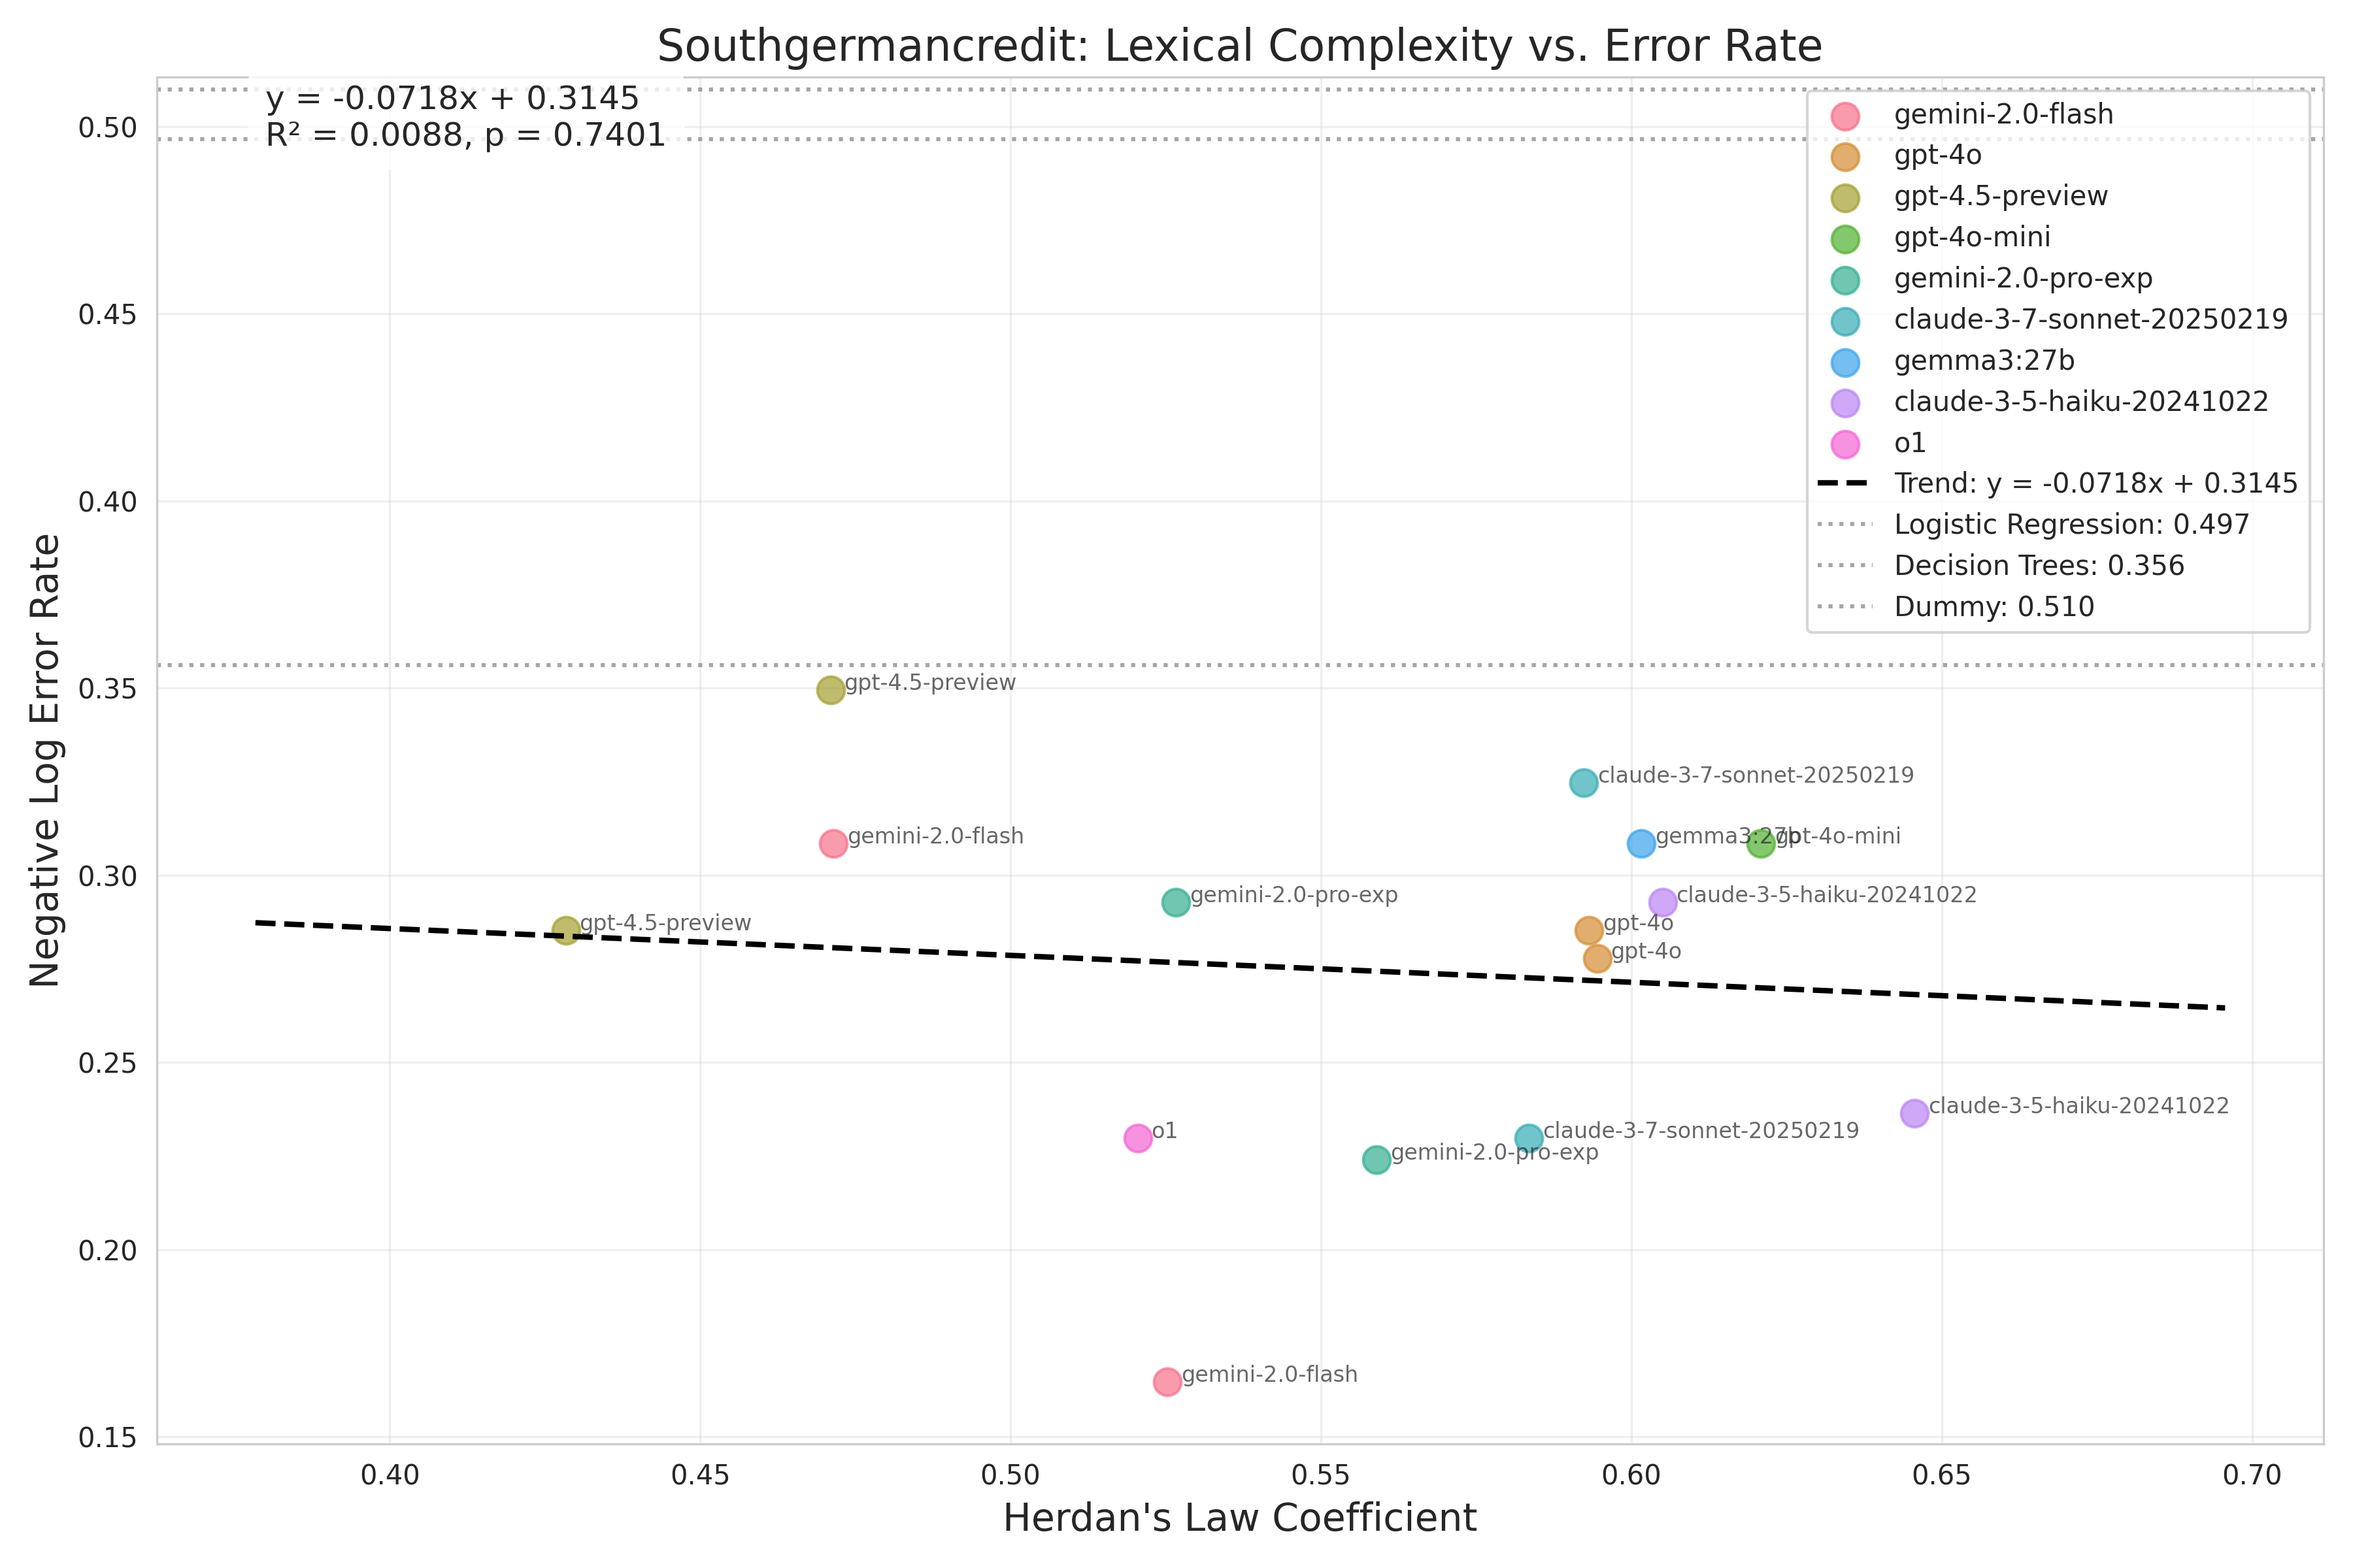
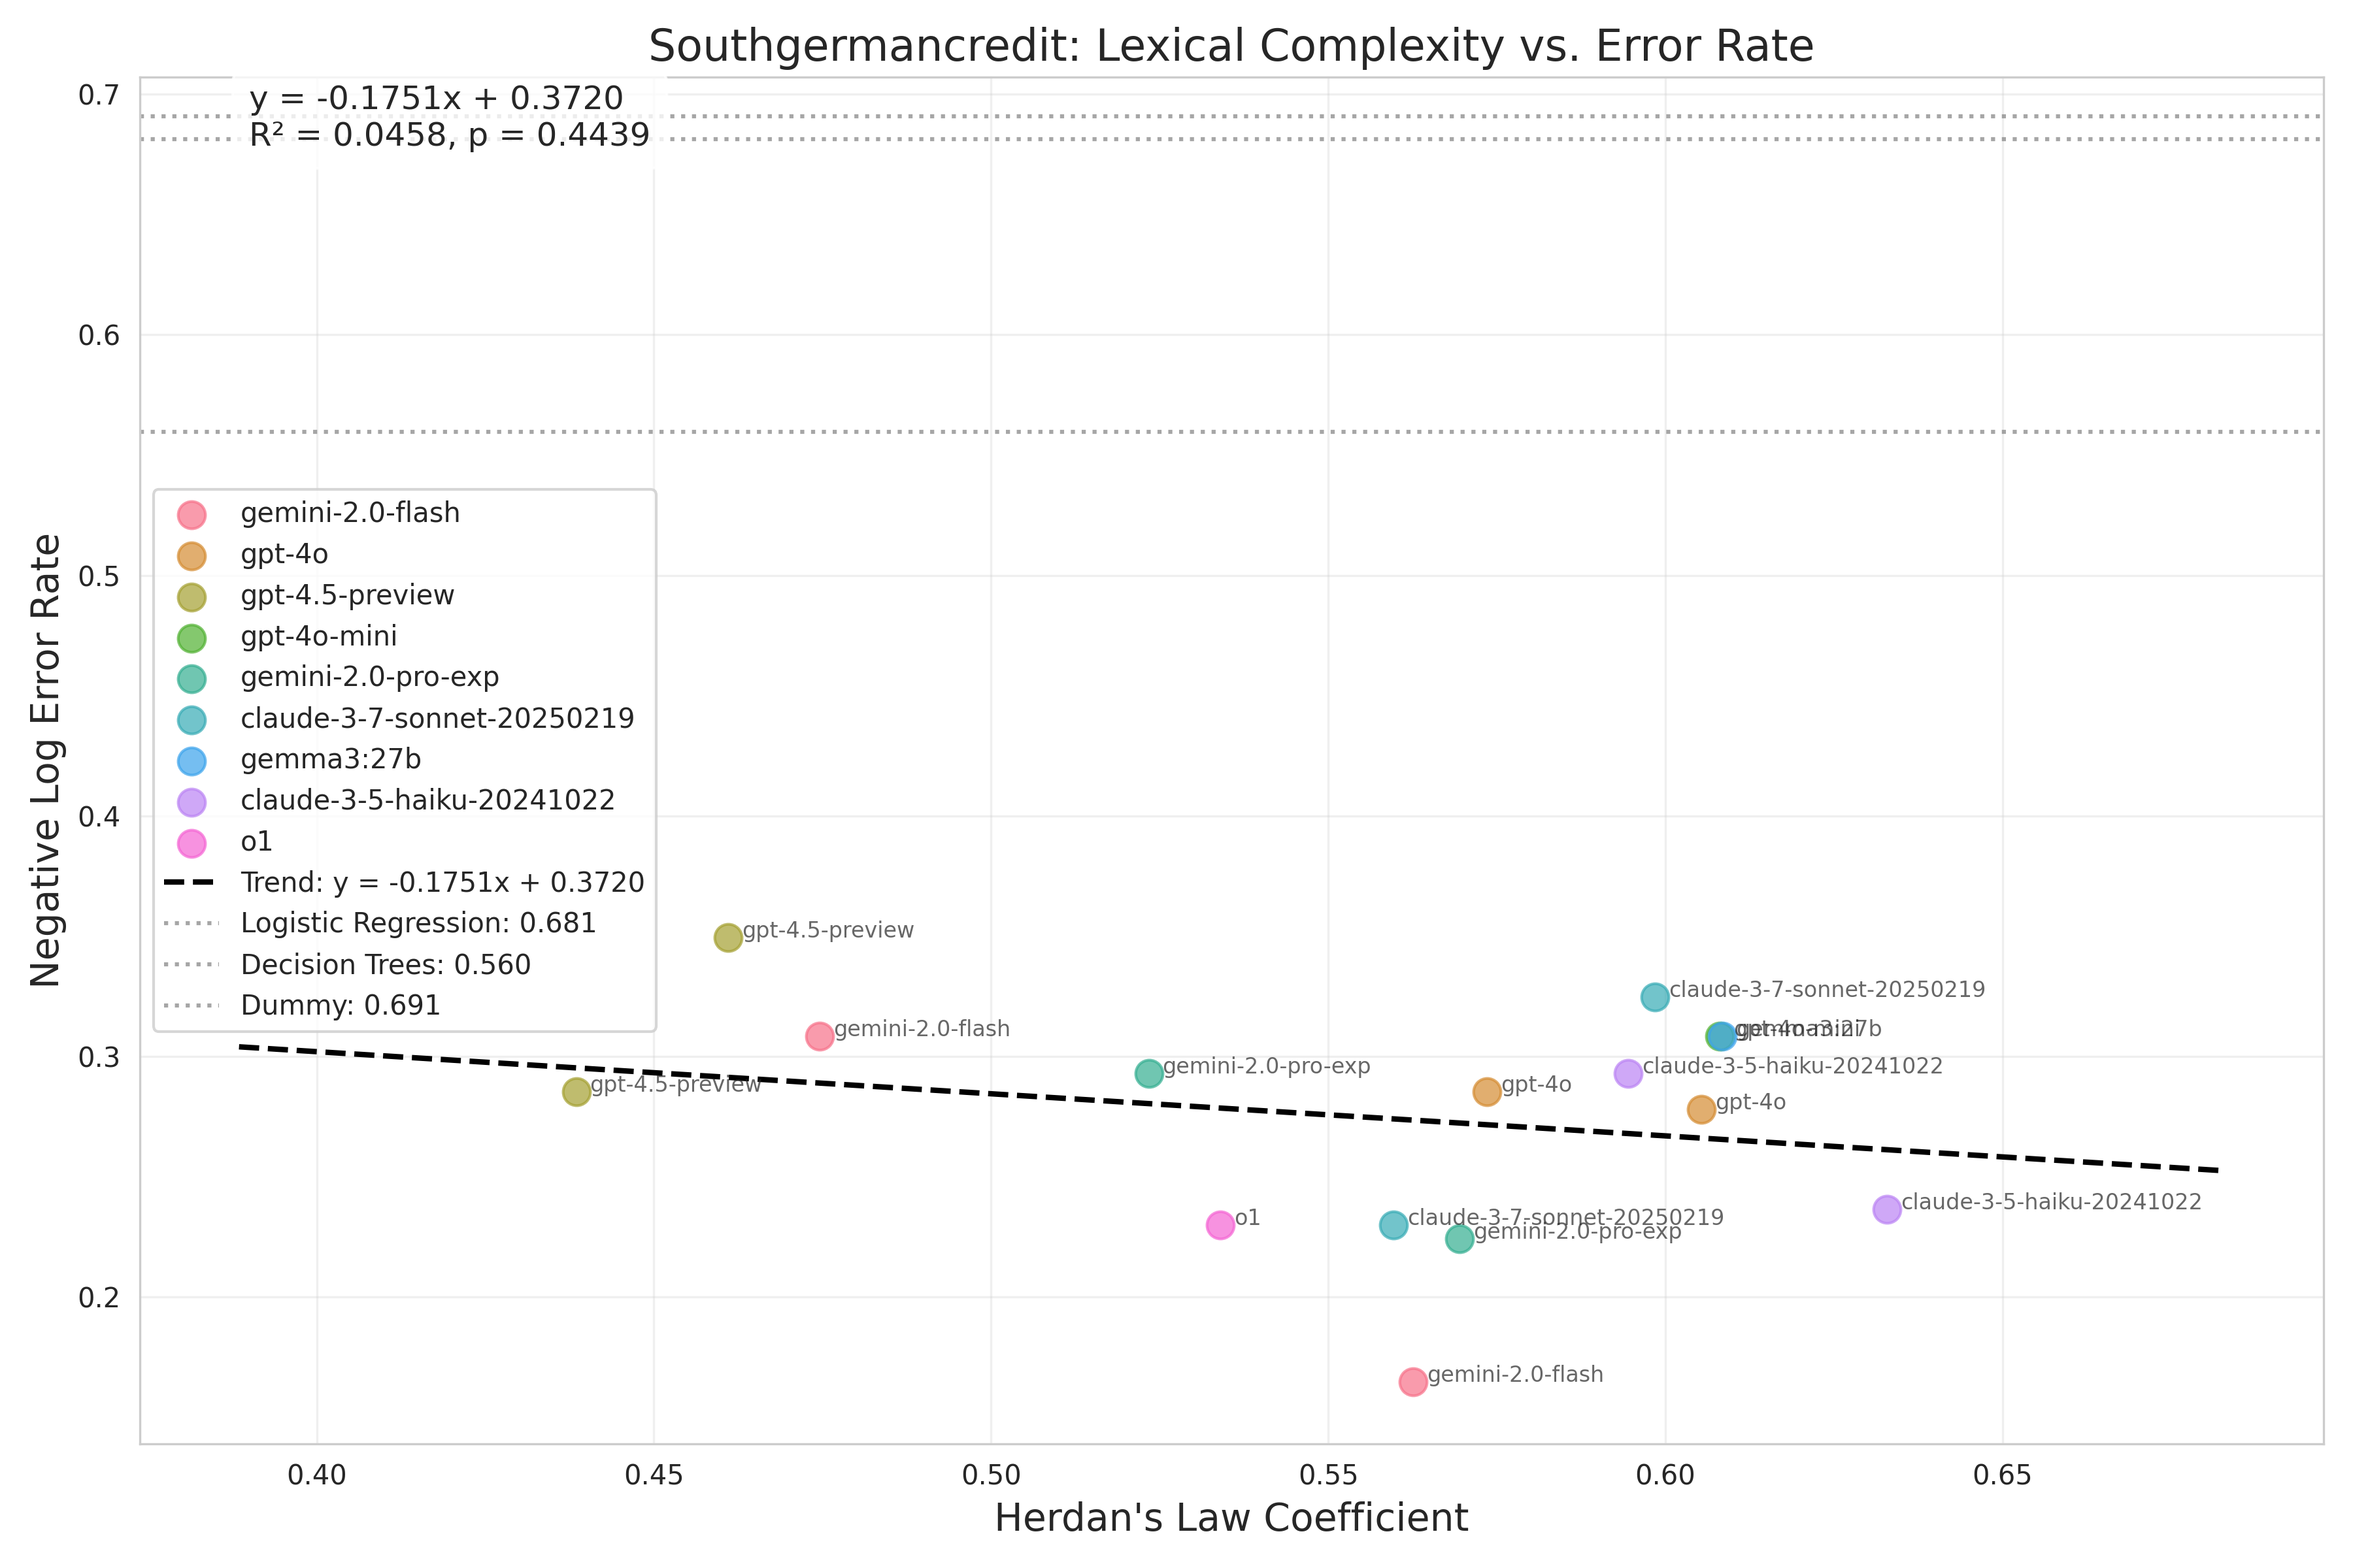
Latest experimental results

diff --git a/outputs/herdan-model-size-definitions.tex b/outputs/herdan-model-size-definitions.tex
@@ -1,3 +1,3 @@
-\newcommand{\herdansizetrend}{-0.021}
-\newcommand{\herdansizetrendpvalue}{0.088}
-\newcommand{\herdanaveragecorrelation}{0.45}
+\newcommand{\herdansizetrend}{-0.023}
+\newcommand{\herdansizetrendpvalue}{0.058}
+\newcommand{\herdanaveragecorrelation}{0.50}

diff --git a/outputs/southgermancredit_error_rate_by_herdan_slope.tex b/outputs/southgermancredit_error_rate_by_herdan_slope.tex
@@ -1,1 +1,1 @@
--0.072
+-0.175

diff --git a/outputs/southgermancredit_error_rate_by_herdan_pvalue.tex b/outputs/southgermancredit_error_rate_by_herdan_pvalue.tex
@@ -1,1 +1,1 @@
-0.740
+0.444

diff --git a/outputs/titanic_error_rate_by_herdan_pvalue.tex b/outputs/titanic_error_rate_by_herdan_pvalue.tex
@@ -1,1 +1,1 @@
-0.696
+0.909

diff --git a/outputs/titanic_error_rate_by_herdan_slope.tex b/outputs/titanic_error_rate_by_herdan_slope.tex
@@ -1,1 +1,1 @@
-0.137
+0.043

diff --git a/outputs/wisconsin_error_rate_by_herdan_pvalue.tex b/outputs/wisconsin_error_rate_by_herdan_pvalue.tex
@@ -1,1 +1,1 @@
-0.016
+0.019

diff --git a/outputs/wisconsin_error_rate_by_herdan_slope.tex b/outputs/wisconsin_error_rate_by_herdan_slope.tex
@@ -1,1 +1,1 @@
-1.592
+1.520
